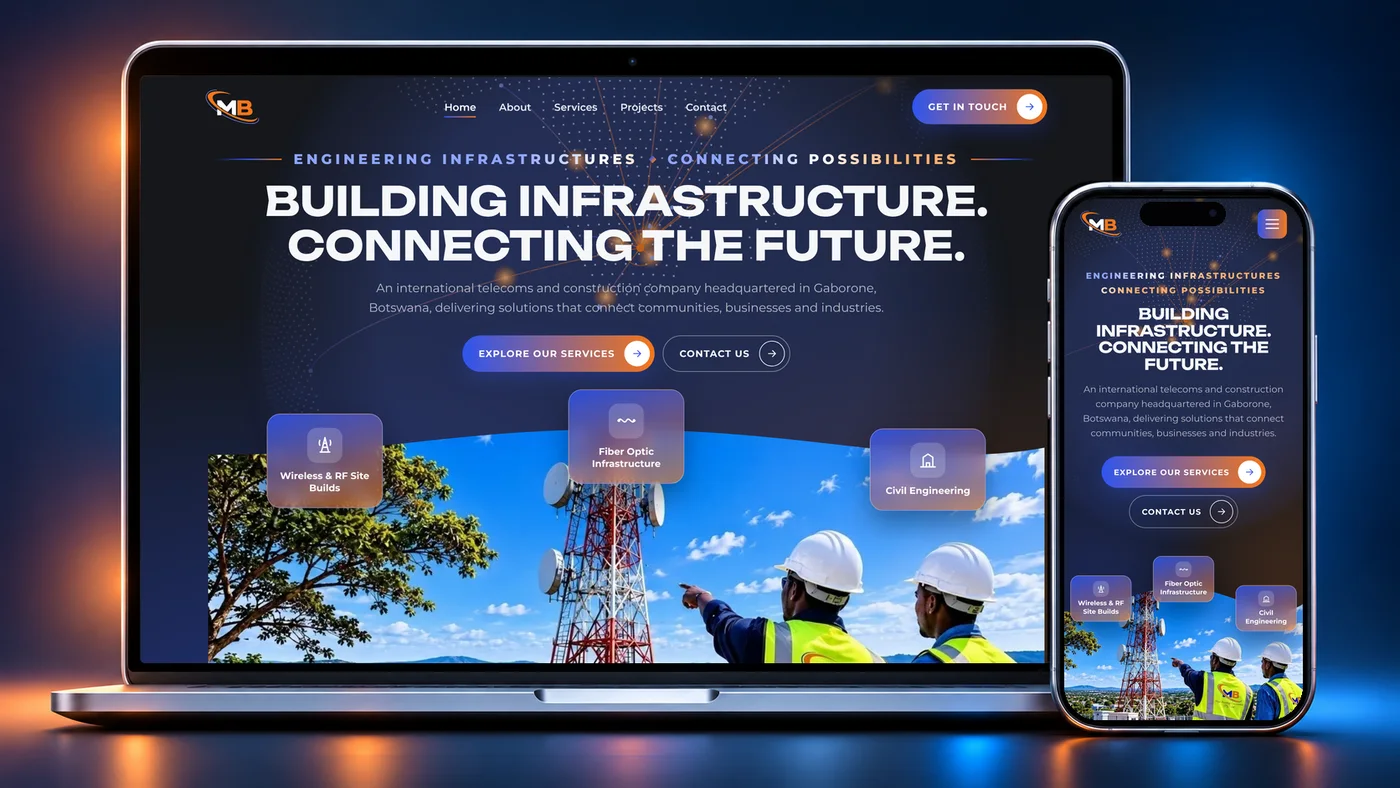
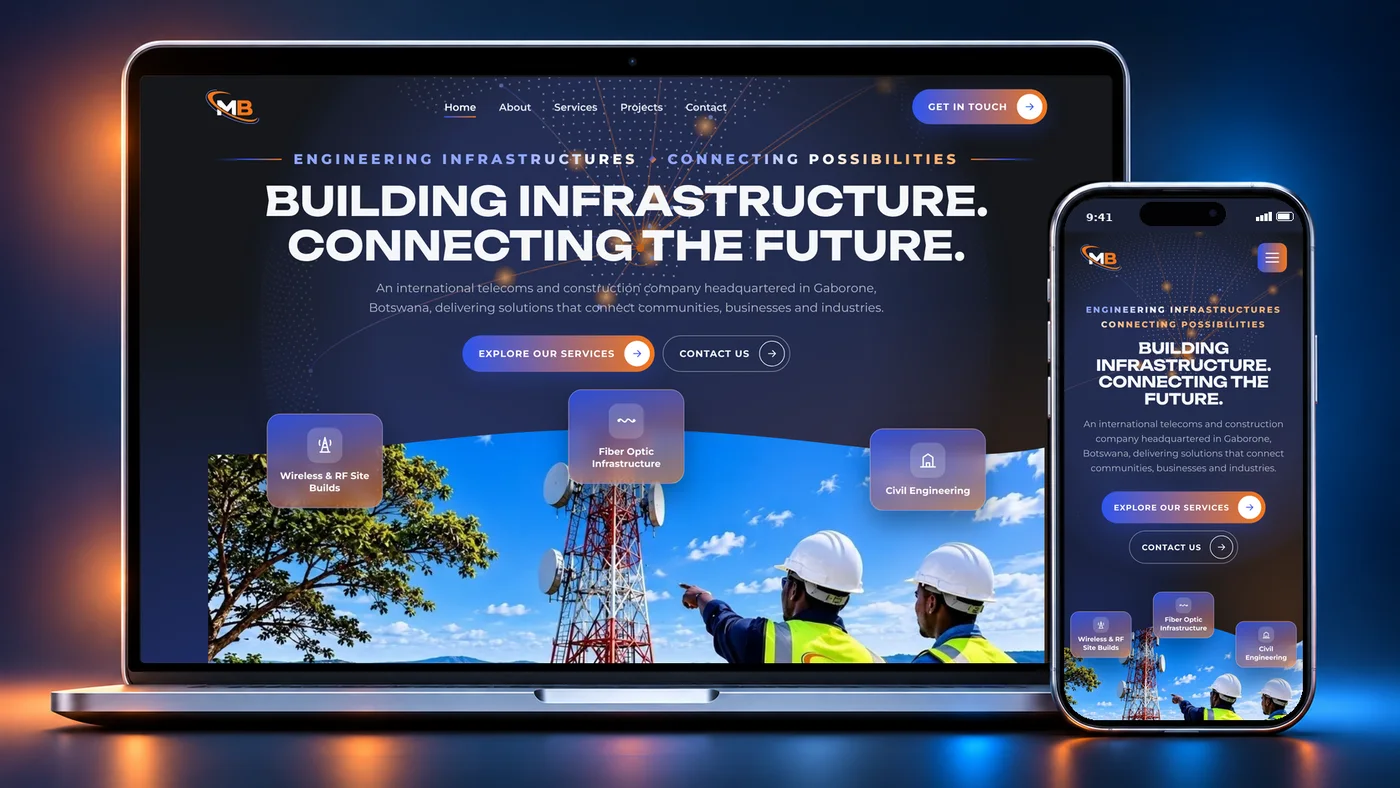
Client work: sideways cards for Mepi and Atiya, with feature chips (#14)
* Client work: sideways-scrolling cards, Atiya added, phones with a status bar

- Mepi and Atiya cards in a scroll-snap row (next card peeks in)
- Atiya card in its own colours (deep green, gold) with the laptop + phone mockup
- both mockups redone with a phone status bar so the island never covers the site

Claude-Session: https://claude.ai/code/session_01AnfBY1DQQepZ4kL8Co1Sy4

* Atiya card: what the portal does (EcoCash bookings, gift vouchers, offers admin)

Claude-Session: https://claude.ai/code/session_01AnfBY1DQQepZ4kL8Co1Sy4

* Client cards: feature chips (EcoCash payments, booking calendar, admin dashboard...)

Claude-Session: https://claude.ai/code/session_01AnfBY1DQQepZ4kL8Co1Sy4

* Atiya card: feature names as the owner wants them

Claude-Session: https://claude.ai/code/session_01AnfBY1DQQepZ4kL8Co1Sy4

* Atiya mockup: Atiya's own deep green and gold light instead of Mepi's orange and blue

Claude-Session: https://claude.ai/code/session_01AnfBY1DQQepZ4kL8Co1Sy4

---------

Changed region(s): [[0.7371, 0.2437, 0.9521, 0.9137]]

diff --git a/artifacts/suneldah/src/pages/home.tsx b/artifacts/suneldah/src/pages/home.tsx
@@ -161,16 +161,29 @@ export default function Home() {
               </div>
             </article>
           </div>
-          <div className="b-sec-h" style={{ marginTop: '90px' }}><h2 className="b-d">Client<br />work</h2><span className="b-m">Built for businesses we work with</span></div>
+          <div className="b-sec-h" style={{ marginTop: '90px' }}><h2 className="b-d">Client<br />work</h2><span className="b-m">Built for businesses we work with · swipe&nbsp;→</span></div>
+          <div className="b-clients" tabIndex={0} aria-label="Client work, scroll sideways">
           <article className="b-card c">
-            <div>
-              <span className="b-m b-chip">Web portal · Botswana</span>
-              <h3>Mepi Building Construction</h3>
-              <p>They climb the towers and pull the fibre that keeps Botswana online. Since 2007, if your phone has signal in Gaborone, there’s a fair chance Mepi’s crew bolted it up there.</p>
-              <p style={{ marginTop: '22px' }}><a className="b-pill mepi" href="https://mepi.slaymasar.workers.dev" target="_blank" rel="noopener">Visit the site <span aria-hidden="true">↗</span></a></p>
-            </div>
-            <div className="b-shots"><img src="/work/mepi-devices.webp" alt="Mepi web portal on a laptop and a phone" width="1400" height="788" loading="lazy" /></div>
-          </article>
+              <div>
+                <span className="b-m b-chip">Web portal · Botswana</span>
+                <h3>Mepi Building Construction</h3>
+                <p>They climb the towers and pull the fibre that keeps Botswana online. Since 2007, if your phone has signal in Gaborone, there’s a fair chance Mepi’s crew bolted it up there.</p>
+              <ul className="b-feats"><li>Enquiry system</li><li>Branded email alerts</li><li>Project portfolio</li><li>Live 3D network globe</li><li>Custom domain</li><li>Mobile-first design</li></ul>
+                <p style={{ marginTop: '22px' }}><a className="b-pill mepi" href="https://mepi.slaymasar.workers.dev" target="_blank" rel="noopener">Visit the site <span aria-hidden="true">↗</span></a></p>
+              </div>
+              <div className="b-shots"><img src="/work/mepi-devices.webp" alt="Mepi web portal on a laptop and a phone" width="1400" height="788" loading="lazy" /></div>
+            </article>
+            <article className="b-card c at">
+              <div>
+                <span className="b-m b-chip">Web portal · Zimbabwe</span>
+                <h3>Atiya Mobile Massage</h3>
+                <p>Premium massage that comes to you. Their portal books, takes payment and runs the business side.</p>
+              <ul className="b-feats"><li>Online booking system</li><li>EcoCash integration</li><li>Gift cards &amp; vouchers system</li><li>Offers &amp; promotions manager</li><li>Admin dashboard</li><li>WhatsApp integration</li></ul>
+                <p style={{ marginTop: '22px' }}><a className="b-pill atiya" href="https://atiya.co.zw" target="_blank" rel="noopener">Visit the site <span aria-hidden="true">↗</span></a></p>
+              </div>
+              <div className="b-shots"><img src="/work/atiya-devices.webp" alt="Atiya web portal on a laptop and a phone" width="1400" height="788" loading="lazy" /></div>
+            </article>
+          </div>
         </section>
     
         <section className="b-sec" id="process">

diff --git a/artifacts/suneldah/src/big-type.css b/artifacts/suneldah/src/big-type.css
@@ -131,3 +131,18 @@
 .b-pill.mepi{background:linear-gradient(90deg,#2F55F0,#F5761A);color:#fff!important}
 .b-shots img{display:block;width:100%;height:auto;border-radius:20px}
 @media(max-width:1020px){.b-card.c{grid-template-columns:1fr}}
+
+/* Client work: a sideways-scrolling row; the next card peeks in so people know to swipe */
+.b-clients{display:flex;gap:24px;overflow-x:auto;scroll-snap-type:x mandatory;scroll-padding:0 2px;padding-bottom:18px;scrollbar-width:thin;overscroll-behavior-x:contain}
+.b-clients>.b-card{flex:0 0 min(92%,1120px);scroll-snap-align:start}
+.b-clients::-webkit-scrollbar{height:6px}.b-clients::-webkit-scrollbar-thumb{background:rgba(10,42,47,.35);border-radius:9px}
+.b-card.c.at{background:#1B2219;color:#F4EFE6}
+.b-card.c.at .b-chip{border-color:#D9B27A;color:#D9B27A}
+.b-pill.atiya{background:linear-gradient(90deg,#E2C08D,#C9985C);color:#1B2219!important}
+@media(max-width:640px){.b-clients{gap:14px}.b-clients>.b-card{flex-basis:88%}}
+
+.b-feats{list-style:none;margin:20px 0 0;padding:0;display:flex;flex-wrap:wrap;gap:8px;max-width:34rem}
+.b-feats li{font-size:13.5px;font-weight:600;padding:7px 12px 7px 26px;border-radius:99px;background:rgba(255,255,255,.07);border:1px solid rgba(255,255,255,.14);position:relative}
+.b-feats li::before{content:'';position:absolute;left:11px;top:50%;width:7px;height:7px;margin-top:-3.5px;border-radius:50%;background:#F5761A}
+.b-card.c.at .b-feats li::before{background:#D9B27A}
+@media(max-width:640px){.b-feats{gap:6px;margin-top:16px}.b-feats li{font-size:11.5px;padding:5px 9px 5px 20px}.b-feats li::before{left:8px;width:6px;height:6px;margin-top:-3px}}
